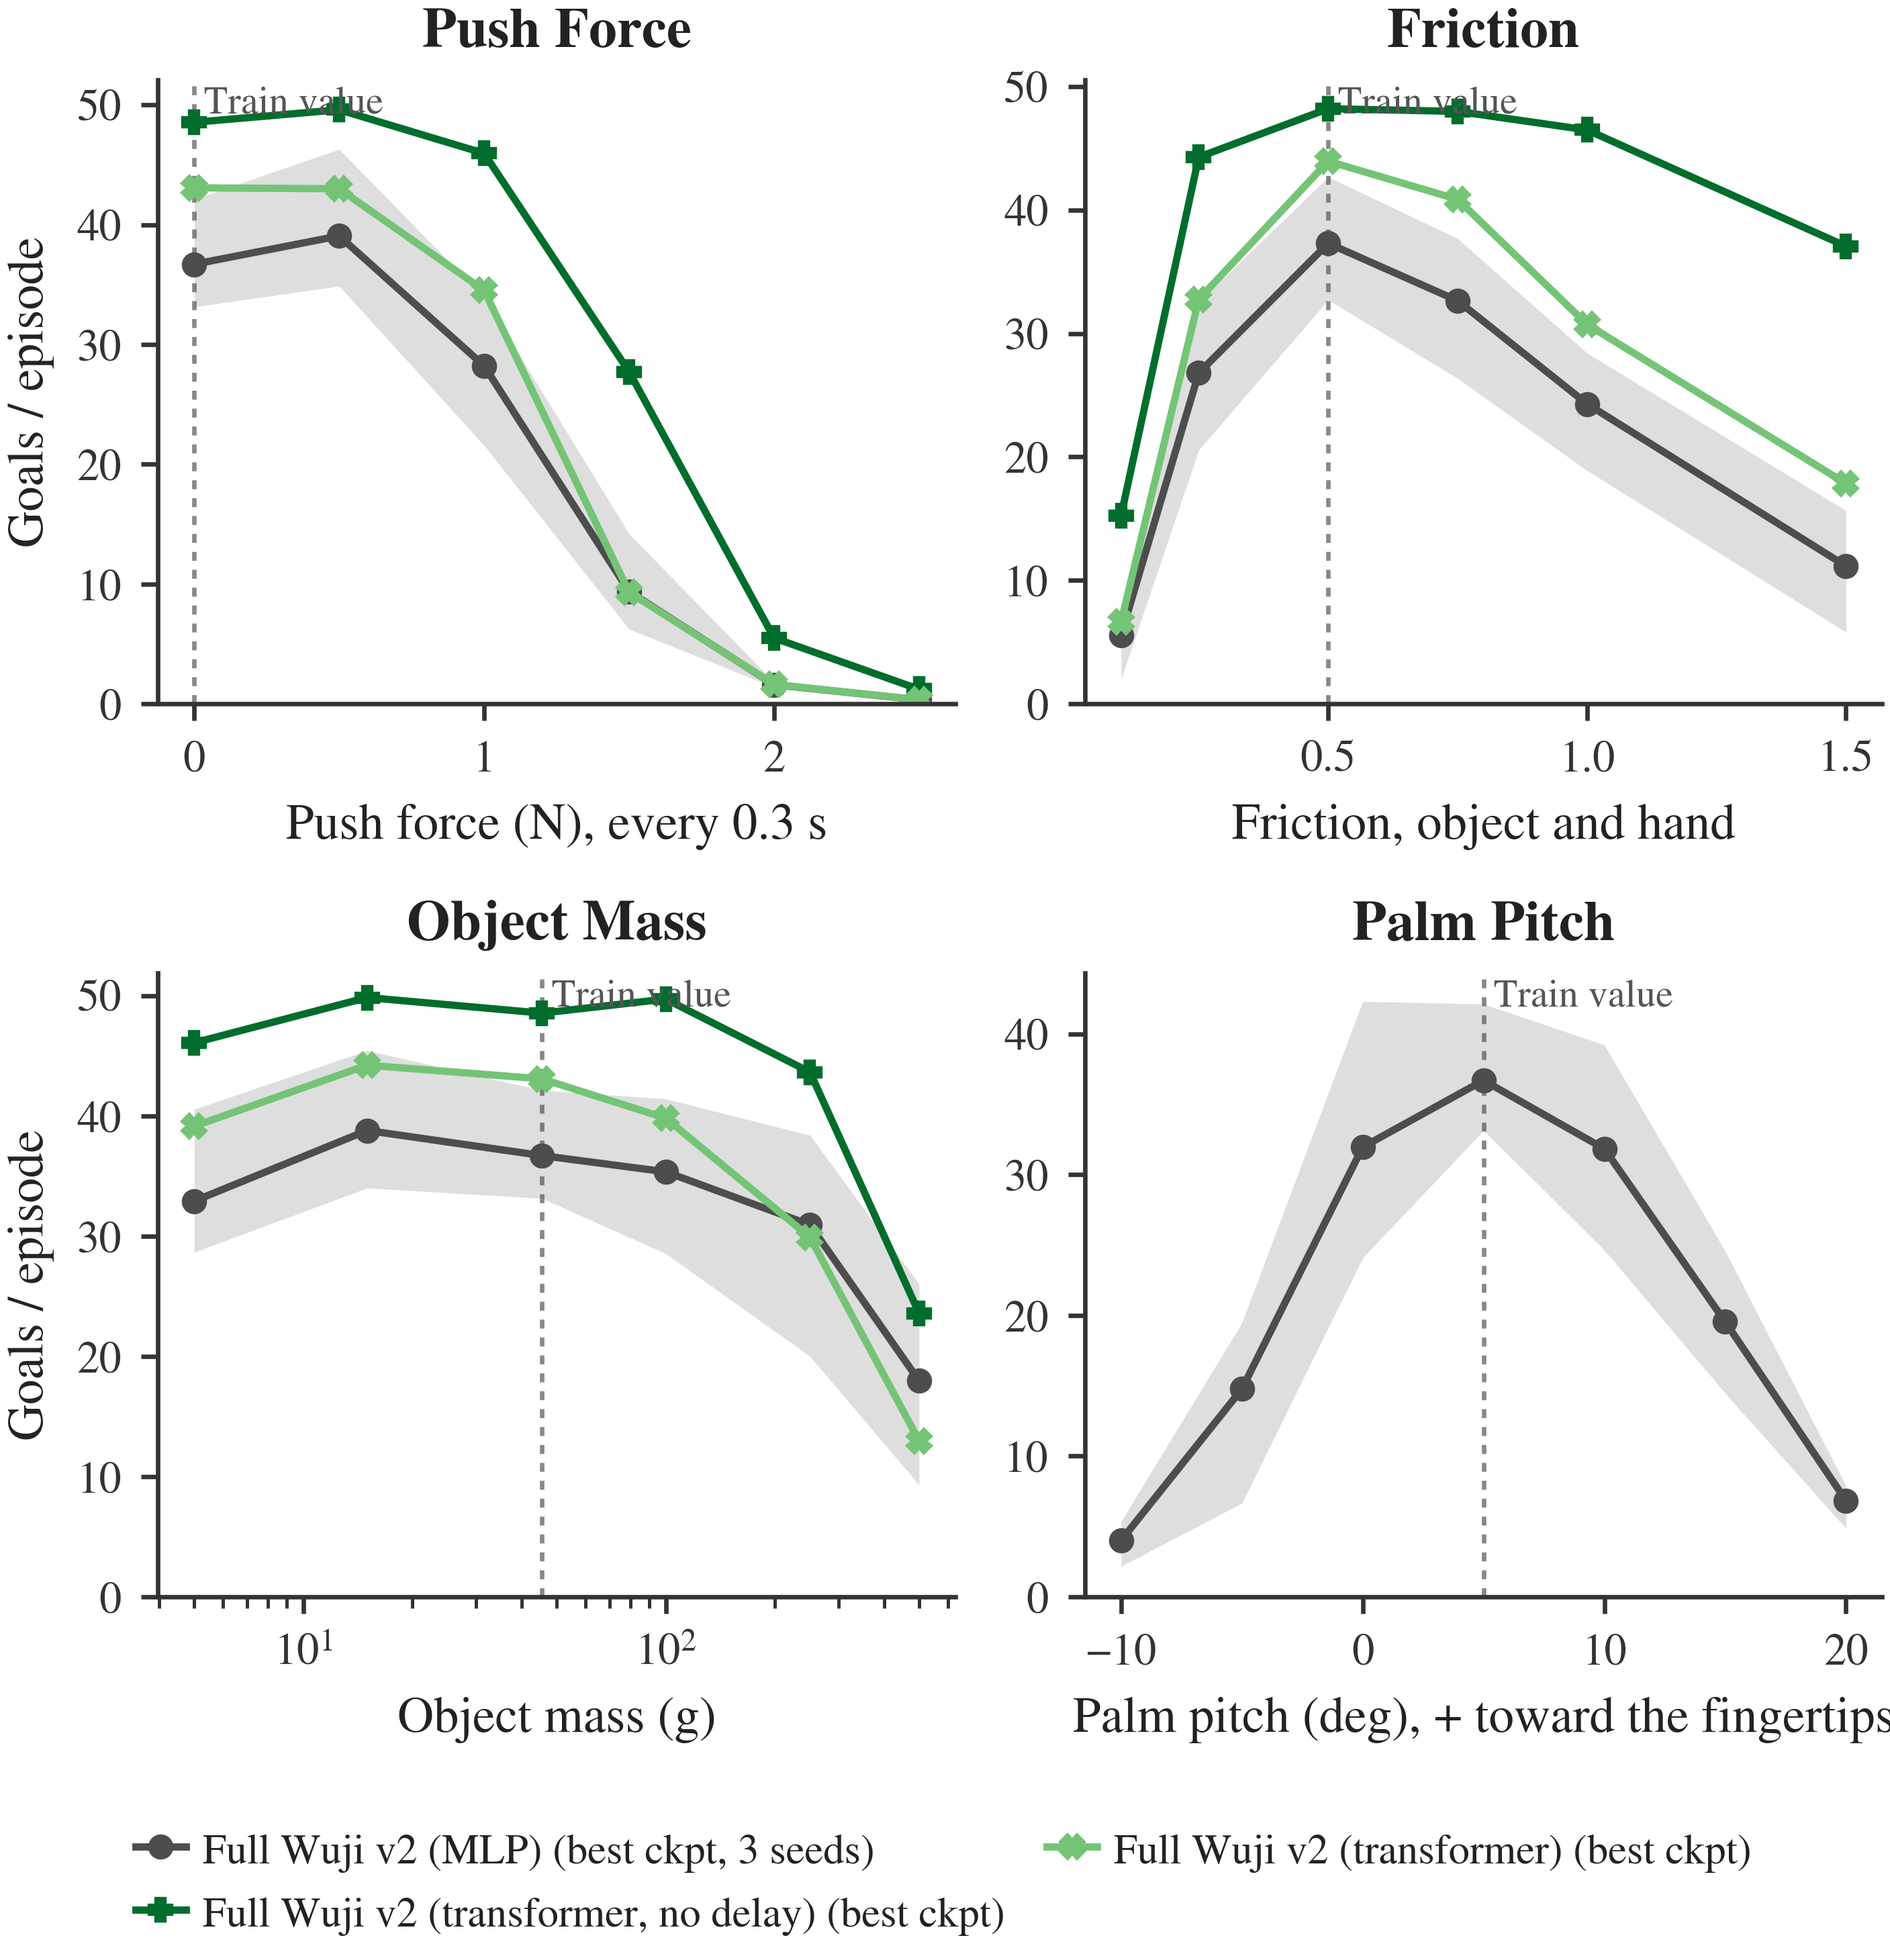
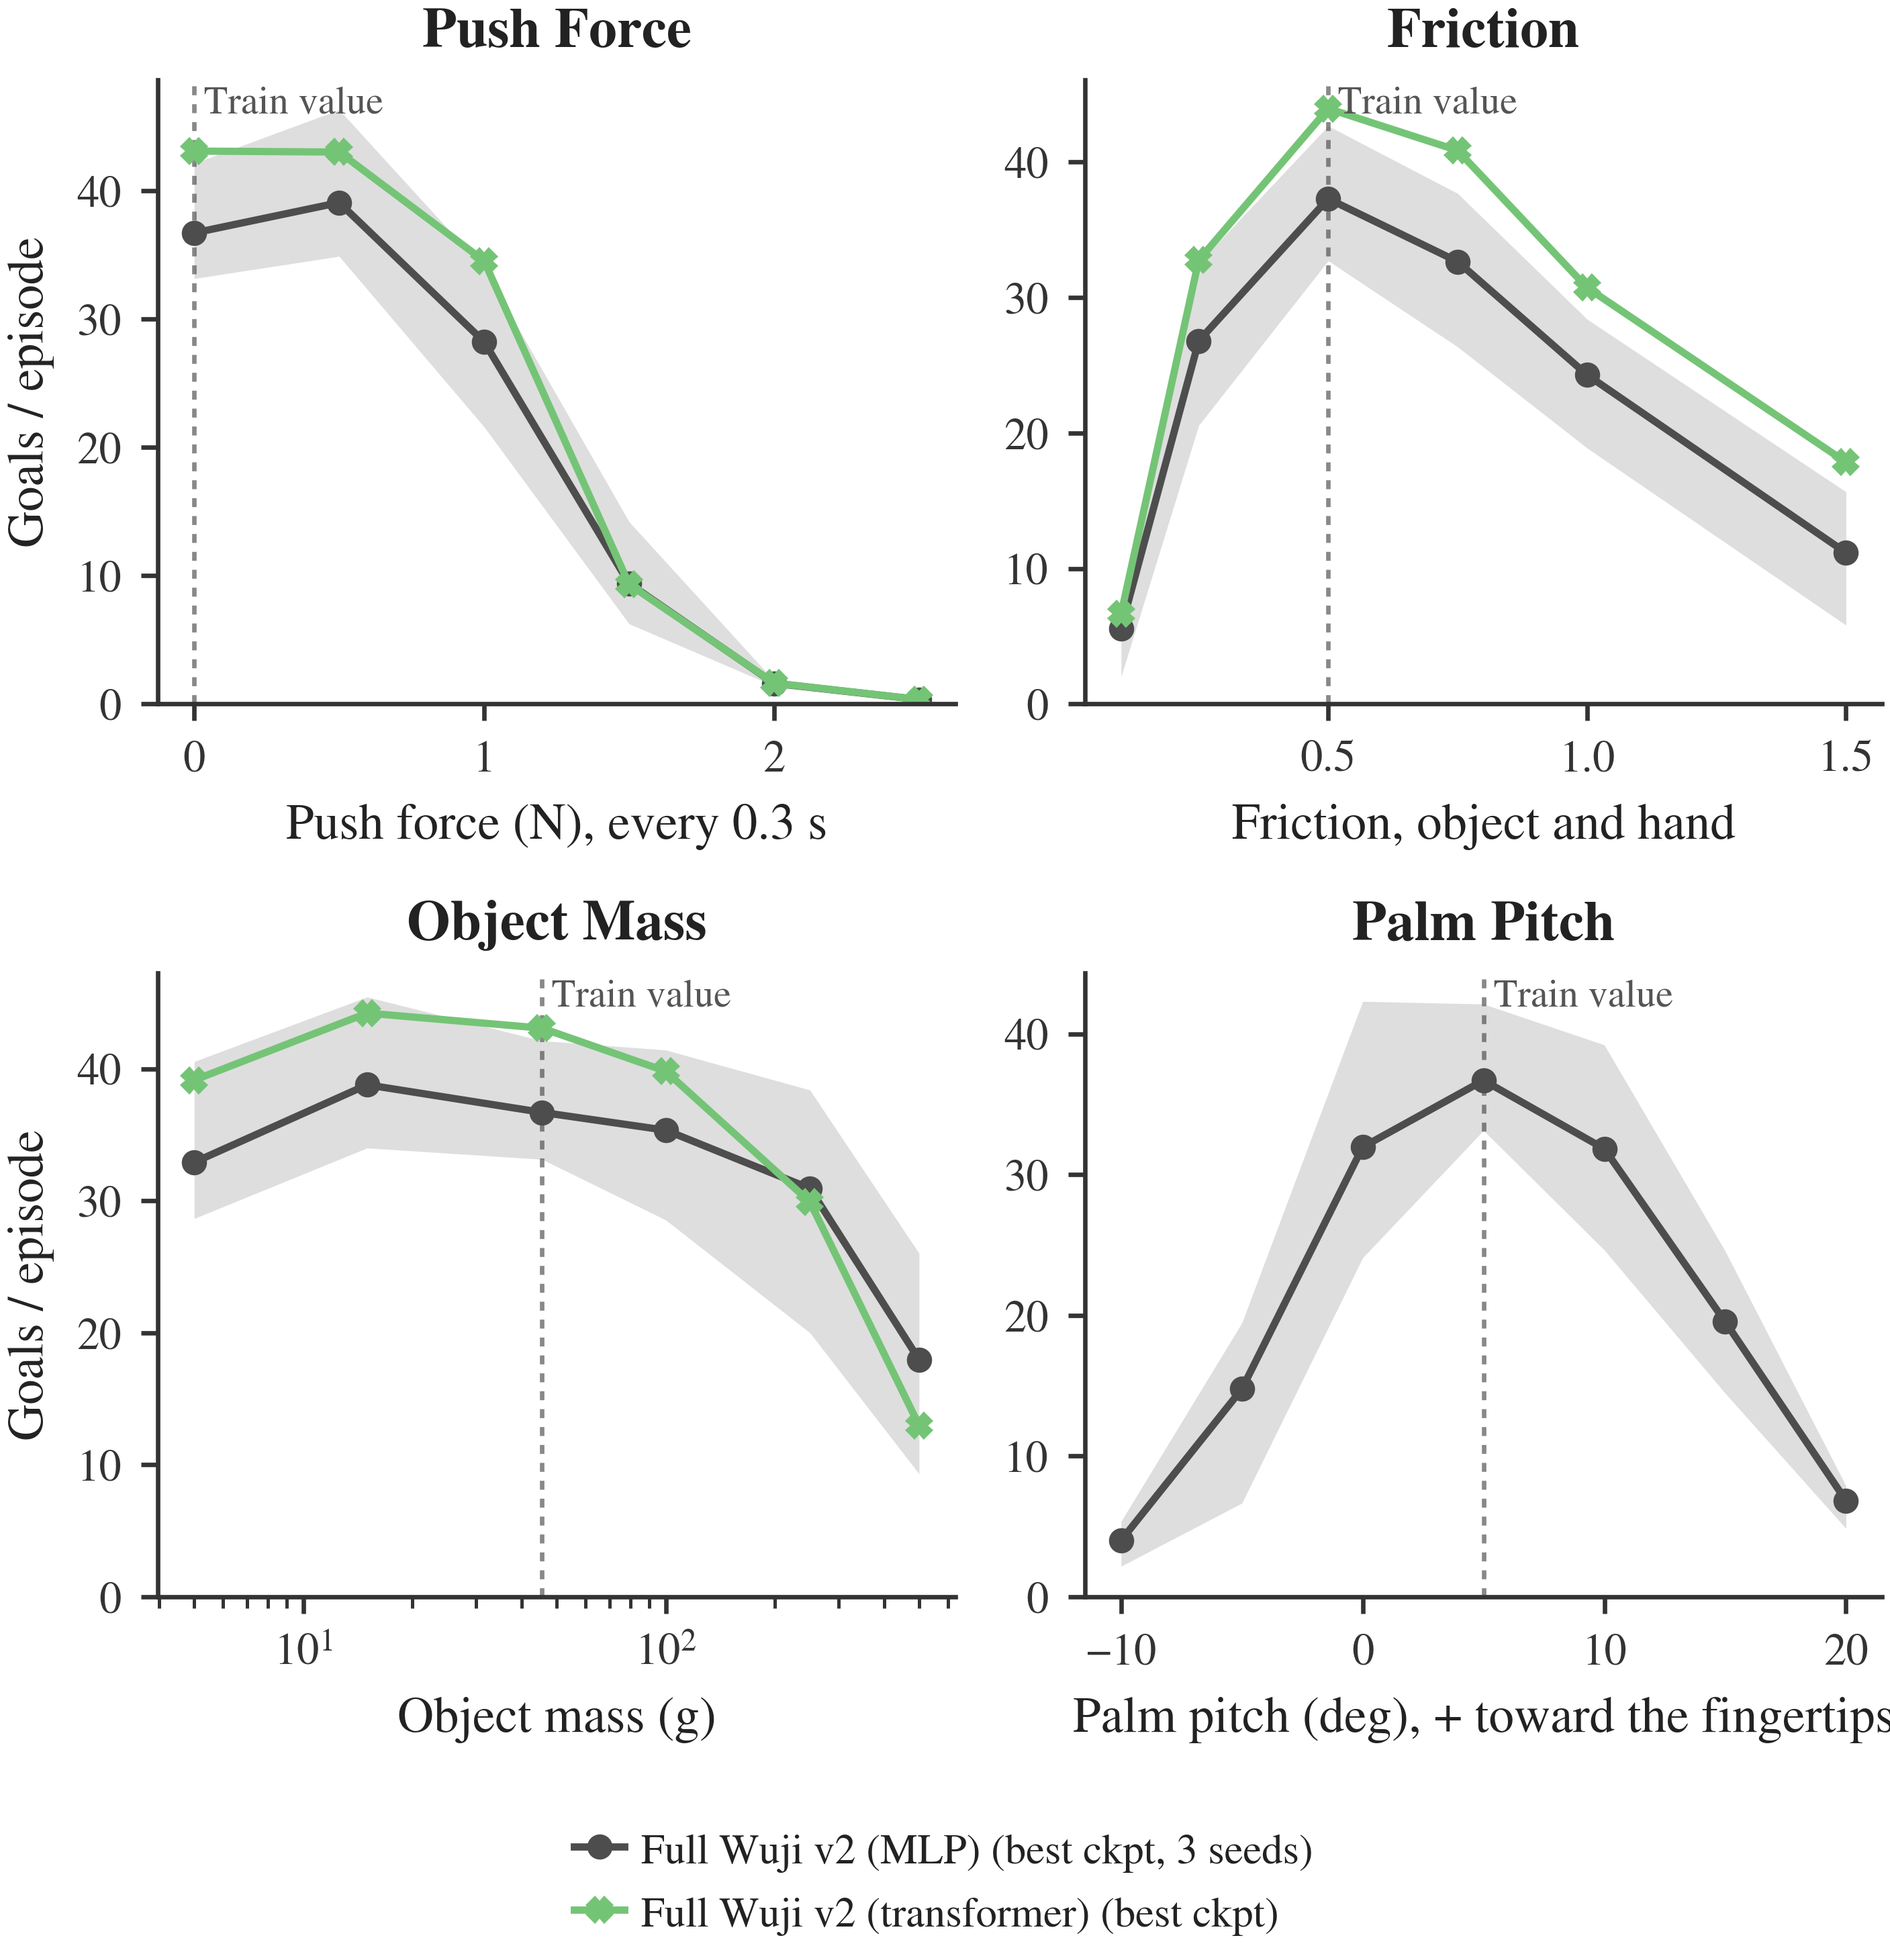
plots/h3: MLP vs transformer, both trained with action delay (drop the no-delay transformer)
Claude-Session: https://claude.ai/code/session_01VEjfLD7vkNCwPYPC2HsL71

diff --git a/experiments/08oct_repro_wuji_full/plots/README.md b/experiments/08oct_repro_wuji_full/plots/README.md
@@ -36,12 +36,12 @@ Some seeds are still running, and pitch for these hands is pending.
 
 ## H3: architecture, transformer vs MLP (`h3_transformer_vs_mlp/`)
 
-`full_hand.png` compares the full hand trained with the MLP (3 seeds) and with the joint transformer at 24k envs, with
-and without action delay (1 seed each).
+`full_hand.png` compares the full hand trained with the MLP (3 seeds) and with the joint transformer (1 seed). Both are
+trained at 24k envs with EMA 0.1 and action delay, so architecture is the only difference.
 
-- The transformer without action delay is the most robust policy we have. It loses almost nothing to friction from
-  0.25 to 1.0, and still scores 46 at a 1 N push.
-- With action delay the transformer is about as robust as the MLP, slightly better.
+The transformer scores higher on almost every axis: 44 vs 37 at the training condition, 31 vs 24 at friction 1.0, and
+35 vs 28 at a 1 N push. On push and heavy objects it stays within the MLP's seed band. With one transformer seed this is
+a lead, not a result.
 
 Pitch for the transformers is pending.
 
